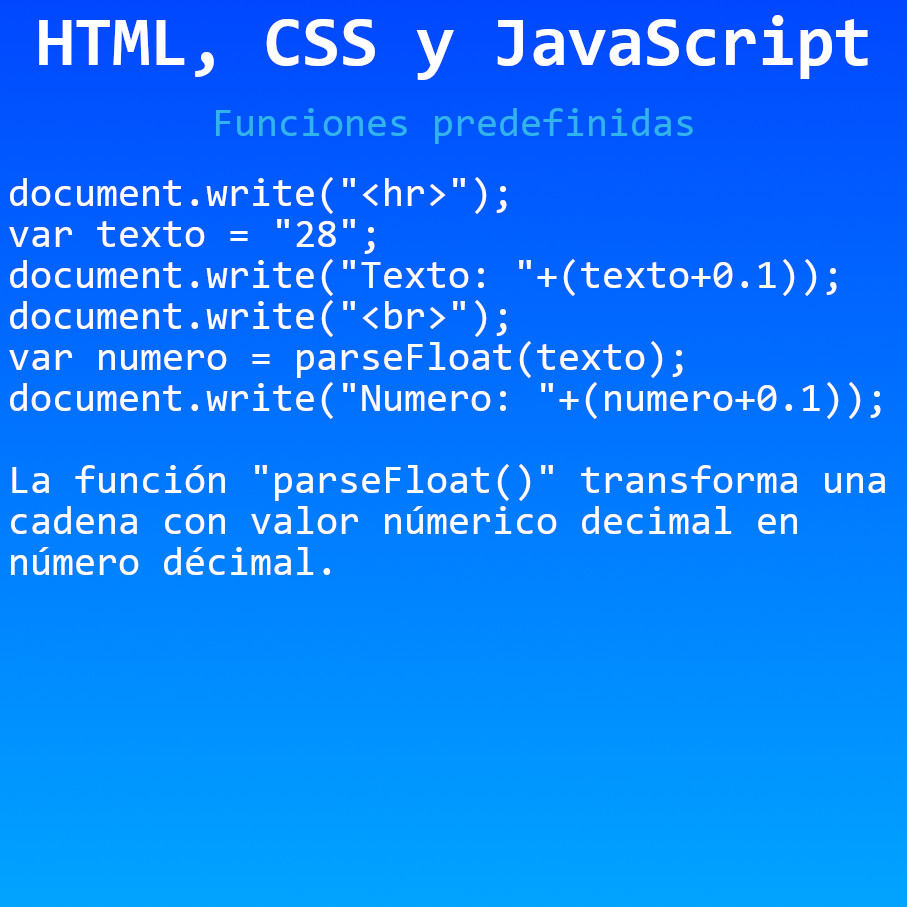
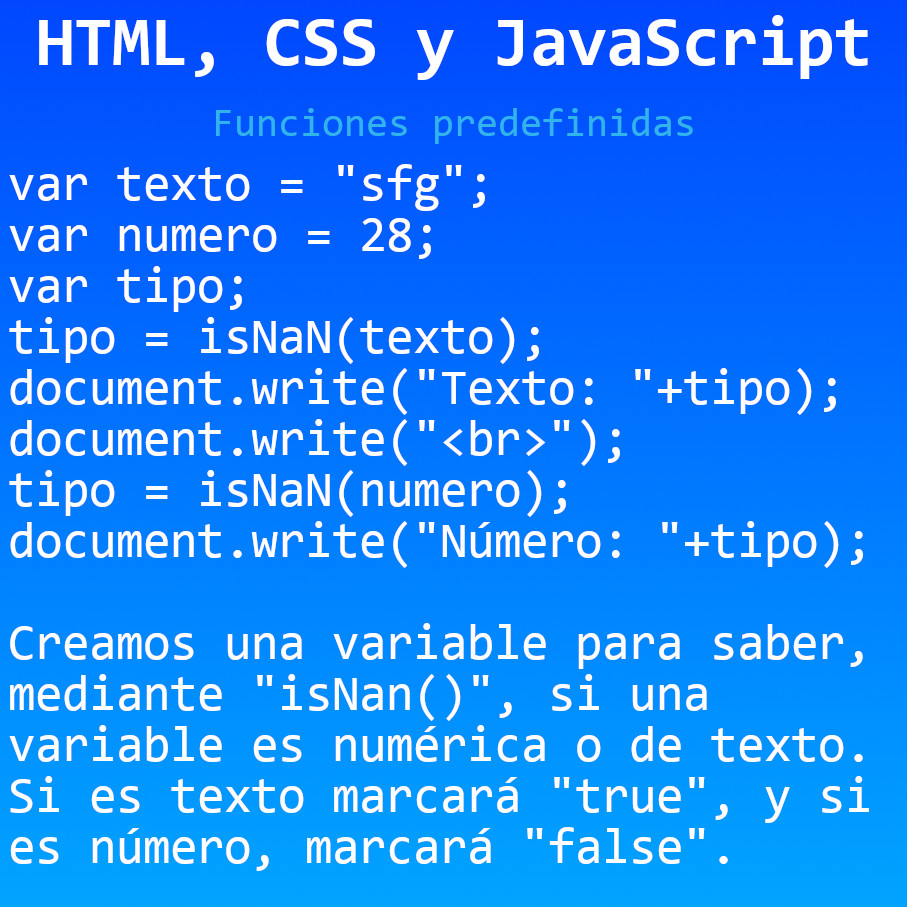
Funciones predefinidas
Funciones predefinidas en JavaScript

diff --git a/HTML, CSS y JavaScript/Funciones predefinidas/js/funciones.js b/HTML, CSS y JavaScript/Funciones predefinidas/js/funciones.js
@@ -15,25 +15,31 @@ document.write(evaluar);
 document.write("<hr>");
 var evaluar = decodeURIComponent("http%3A%2F%2Flocalhost%2FHTML%2C%20CSS%20y%20JavaScript%2FFunciones%20predefinidas%2F");
 document.write(evaluar);
-//----------------------
 document.write("<hr>");
-// DECLARAR VARIABLE
 var texto = "28";
-// MOSTRAR EN PANTALLA
 document.write("Texto: "+(texto+1));
 document.write("<br>");
-// CAMBIAR A NÚMERO
 var numero = parseInt(texto);
-// MOSTRAR EN PANTALLA
 document.write("Numero: "+(numero+1));
+document.write("<hr>");
+var texto = "28";
+document.write("Texto: "+(texto+0.1));
+document.write("<br>");
+var numero = parseFloat(texto);
+document.write("Numero: "+(numero+0.1));
 //----------------------
 document.write("<hr>");
 // DECLARAR VARIABLE
-var texto = "28";
+var texto = "sfg";
+var numero = 28;
+var tipo;
+// ASIGNAR VALOR
+tipo = isNaN(texto);
 // MOSTRAR EN PANTALLA
-document.write("Texto: "+(texto+0.1));
+document.write("Texto: "+tipo);
+// SALTO DE LÍNEA
 document.write("<br>");
-// CAMBIAR A NÚMERO
-var numero = parseFloat(texto);
+// ASIGNAR VALOR
+tipo = isNaN(numero);
 // MOSTRAR EN PANTALLA
-document.write("Numero: "+(numero+0.1));
+document.write("Número: "+tipo);
